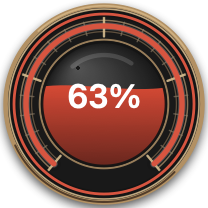
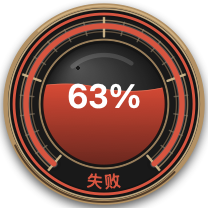
feat: add app migration and curved latency readout

diff --git a/Sources/ModelStatus/main.swift b/Sources/ModelStatus/main.swift
@@ -12,6 +12,7 @@ private enum AppConfig {
     static let refreshIntervalKey = "refreshIntervalSeconds"
     static let probeHistoryKey = "probeHistory.v1"
     static let probeBackoffKey = "probeBackoff.v1"
+    static let migrationRelaunchArgument = "--migrated-to-applications"
     static let defaultSize = NSSize(width: 500, height: 470)
     static let minimumSize = NSSize(width: 430, height: 450)
     static let orbSize = NSSize(width: 104, height: 104)
@@ -1442,6 +1443,59 @@ private final class OrbWidgetView: NSView {
             color: quota == nil ? NSColor(calibratedWhite: 0.74, alpha: 1) : .white,
             alignment: .center
         )
+
+        let presentation = presentations[ModelDefinition.orbModel.id]
+        let latencyText: String
+        switch presentation?.phase {
+        case .online:
+            latencyText = formatGaugeLatency(presentation?.latencyMilliseconds ?? 0)
+        case .failed:
+            latencyText = "失败"
+        case .unknown, nil:
+            latencyText = "--"
+        }
+        drawCurvedLatencyText(
+            latencyText,
+            context: context,
+            center: center,
+            radius: 38.5,
+            color: orbStatusColor(presentation)
+        )
+    }
+
+    private func drawCurvedLatencyText(
+        _ text: String,
+        context: CGContext,
+        center: CGPoint,
+        radius: CGFloat,
+        color: NSColor
+    ) {
+        let font = NSFont.monospacedDigitSystemFont(ofSize: 8.3, weight: .semibold)
+        let attributes: [NSAttributedString.Key: Any] = [
+            .font: font,
+            .foregroundColor: color
+        ]
+        let glyphs = text.map { String($0) }
+        let widths = glyphs.map { ($0 as NSString).size(withAttributes: attributes).width }
+        let spacing: CGFloat = 0.35
+        let totalWidth = widths.reduce(0, +) + spacing * CGFloat(max(glyphs.count - 1, 0))
+        var offset = -totalWidth / 2
+
+        for (glyph, width) in zip(glyphs, widths) {
+            let arcOffset = offset + width / 2
+            let degrees = 270 + arcOffset / radius * 180 / .pi
+            let position = point(center: center, radius: radius, degrees: degrees)
+            let size = (glyph as NSString).size(withAttributes: attributes)
+            context.saveGState()
+            context.translateBy(x: position.x, y: position.y)
+            context.rotate(by: radians(degrees + 90))
+            (glyph as NSString).draw(
+                at: CGPoint(x: -size.width / 2, y: -size.height / 2),
+                withAttributes: attributes
+            )
+            context.restoreGState()
+            offset += width + spacing
+        }
     }
 
     private func strokeCircle(_ context: CGContext, center: CGPoint, radius: CGFloat, width: CGFloat, color: NSColor) {
@@ -1639,6 +1693,7 @@ final class AppDelegate: NSObject, NSApplicationDelegate, NSWindowDelegate {
 
     func applicationDidFinishLaunching(_ notification: Notification) {
         NSApp.setActivationPolicy(.accessory)
+        offerApplicationMigrationIfNeeded()
         histories = loadHistories()
         probeBackoffs = loadProbeBackoffs()
         if !isQAPreview { apiKey = KeychainStore.readAPIKey() }
@@ -1675,6 +1730,116 @@ final class AppDelegate: NSObject, NSApplicationDelegate, NSWindowDelegate {
             DispatchQueue.main.asyncAfter(deadline: .now() + 0.35) { [weak self] in
                 self?.captureQAPreview()
             }
+        }
+    }
+
+    private func offerApplicationMigrationIfNeeded() {
+        guard !isQAPreview,
+              !arguments.contains(AppConfig.migrationRelaunchArgument) else { return }
+
+        let fileManager = FileManager.default
+        let currentAppURL = Bundle.main.bundleURL.standardizedFileURL
+        guard currentAppURL.pathExtension == "app",
+              !isInsideApplicationsFolder(currentAppURL) else { return }
+
+        let systemApplications = URL(fileURLWithPath: "/Applications", isDirectory: true)
+        let userApplications = fileManager.homeDirectoryForCurrentUser
+            .appendingPathComponent("Applications", isDirectory: true)
+        let destinationFolder: URL
+        if fileManager.isWritableFile(atPath: systemApplications.path) {
+            destinationFolder = systemApplications
+        } else {
+            do {
+                try fileManager.createDirectory(at: userApplications, withIntermediateDirectories: true)
+                destinationFolder = userApplications
+            } catch {
+                showAlert(title: "无法准备应用程序文件夹", message: error.localizedDescription)
+                return
+            }
+        }
+
+        NSApp.activate(ignoringOtherApps: true)
+        let alert = NSAlert()
+        alert.messageText = "将 InputStatus 移到“应用程序”文件夹？"
+        alert.informativeText = "移动后可以正常安装自动更新，并避免从下载或隔离位置运行。已有旧版本时会自动替换。"
+        alert.addButton(withTitle: "移到应用程序文件夹")
+        alert.addButton(withTitle: "稍后")
+        guard alert.runModal() == .alertFirstButtonReturn else { return }
+
+        do {
+            try beginApplicationMigration(from: currentAppURL, to: destinationFolder)
+        } catch {
+            showAlert(title: "迁移失败", message: error.localizedDescription)
+        }
+    }
+
+    private func isInsideApplicationsFolder(_ appURL: URL) -> Bool {
+        let path = appURL.resolvingSymlinksInPath().standardizedFileURL.path
+        let folders = [
+            URL(fileURLWithPath: "/Applications", isDirectory: true),
+            FileManager.default.homeDirectoryForCurrentUser.appendingPathComponent("Applications", isDirectory: true)
+        ]
+        return folders.contains { folder in
+            let prefix = folder.resolvingSymlinksInPath().standardizedFileURL.path + "/"
+            return path.hasPrefix(prefix)
+        }
+    }
+
+    private func beginApplicationMigration(from sourceAppURL: URL, to destinationFolder: URL) throws {
+        let fileManager = FileManager.default
+        let identifier = UUID().uuidString
+        let targetAppURL = destinationFolder.appendingPathComponent("\(AppConfig.appName).app", isDirectory: true)
+        let stagingAppURL = destinationFolder.appendingPathComponent(".InputStatus-installing-\(identifier).app", isDirectory: true)
+        let backupAppURL = destinationFolder.appendingPathComponent(".InputStatus-migration-backup-\(identifier).app", isDirectory: true)
+
+        do {
+            try fileManager.copyItem(at: sourceAppURL, to: stagingAppURL)
+            guard let copiedBundle = Bundle(url: stagingAppURL),
+                  copiedBundle.bundleIdentifier == Bundle.main.bundleIdentifier,
+                  runTool("/usr/bin/codesign", arguments: ["--verify", "--deep", "--strict", stagingAppURL.path]) else {
+                throw NSError(
+                    domain: "InputStatusMigration",
+                    code: 1,
+                    userInfo: [NSLocalizedDescriptionKey: "复制后的应用标识或代码签名无效。"]
+                )
+            }
+
+            let hadExistingApp = fileManager.fileExists(atPath: targetAppURL.path)
+            if hadExistingApp {
+                try fileManager.moveItem(at: targetAppURL, to: backupAppURL)
+            }
+            do {
+                try fileManager.moveItem(at: stagingAppURL, to: targetAppURL)
+            } catch {
+                if hadExistingApp {
+                    try? fileManager.moveItem(at: backupAppURL, to: targetAppURL)
+                }
+                throw error
+            }
+
+            let configuration = NSWorkspace.OpenConfiguration()
+            configuration.arguments = [AppConfig.migrationRelaunchArgument]
+            configuration.activates = true
+            configuration.createsNewApplicationInstance = true
+            NSWorkspace.shared.openApplication(at: targetAppURL, configuration: configuration) { [weak self] _, error in
+                DispatchQueue.main.async {
+                    if let error {
+                        try? fileManager.removeItem(at: targetAppURL)
+                        if hadExistingApp {
+                            try? fileManager.moveItem(at: backupAppURL, to: targetAppURL)
+                        }
+                        self?.showAlert(title: "无法启动迁移后的应用", message: error.localizedDescription)
+                        return
+                    }
+                    if hadExistingApp {
+                        try? fileManager.removeItem(at: backupAppURL)
+                    }
+                    NSApp.terminate(nil)
+                }
+            }
+        } catch {
+            try? fileManager.removeItem(at: stagingAppURL)
+            throw error
         }
     }
 
@@ -2805,6 +2970,16 @@ private func formatStatusLatency(_ milliseconds: Int) -> String {
     return String(format: "%.1fs", Double(milliseconds) / 1_000)
 }
 
+private func formatGaugeLatency(_ milliseconds: Int) -> String {
+    if milliseconds >= 10_000 {
+        return String(format: "%.0fs", Double(milliseconds) / 1_000)
+    }
+    if milliseconds >= 1_000 {
+        return String(format: "%.1fs", Double(milliseconds) / 1_000)
+    }
+    return "\(milliseconds)ms"
+}
+
 private func formatDuration(_ interval: TimeInterval) -> String {
     let totalMinutes = max(Int(interval / 60), 0)
     if totalMinutes < 1 { return "<1m" }
@@ -2831,7 +3006,9 @@ enum ModelStatusMain {
     private static let appDelegate = AppDelegate()
 
     static func main() {
-        terminateOtherInstances()
+        if !ProcessInfo.processInfo.arguments.contains(AppConfig.migrationRelaunchArgument) {
+            terminateOtherInstances()
+        }
         let application = NSApplication.shared
         application.delegate = appDelegate
         application.run()

diff --git a/design-qa.md b/design-qa.md
@@ -1,53 +1,43 @@
 # Design QA
 
-- Source visual truth: `/Users/qzd/Documents/Codex/2026-08-05/ka/output/imagegen/model-status-orb-latency-gauge-v4.png`
-- Orb default screenshot: `/Users/qzd/Documents/Codex/2026-08-05/ka/qa/model-status-orb.png`
-- Orb hover screenshot: `/Users/qzd/Documents/Codex/2026-08-05/ka/qa/model-status-orb-hover.png`
-- Orb hover information screenshot: `/Users/qzd/Documents/Codex/2026-08-05/ka/qa/model-status-orb-hover-info.png`
-- Orb low-quota screenshot: `/Users/qzd/Documents/Codex/2026-08-05/ka/qa/model-status-orb-low.png`
-- Orb no-data screenshot: `/Users/qzd/Documents/Codex/2026-08-05/ka/qa/model-status-orb-empty.png`
-- Orb recent-interruption screenshot: `/Users/qzd/Documents/Codex/2026-08-05/ka/qa/model-status-orb-interrupted.png`
-- Orb failed screenshot: `/Users/qzd/Documents/Codex/2026-08-05/ka/qa/model-status-orb-failed.png`
-- Detail panel screenshot: `/Users/qzd/Documents/Codex/2026-08-05/ka/qa/model-status-view.png`
-- Detail minimum-size screenshot: `/Users/qzd/Documents/Codex/2026-08-05/ka/qa/model-status-view-minimum.png`
+## Evidence
 
-## Comparison
+- Source visual truth: `/var/folders/7x/jcrf3z7147s2r2__50fj3yx80000gn/T/codex-clipboard-4040951f-5198-48e4-b201-4a4ba9c81e71.png`
+- Implementation screenshot: `/private/tmp/model-status-orb.png`
+- Combined comparison: `/private/tmp/input-status-design-comparison.png`
+- Source pixels: 282 x 244; implementation pixels: 208 x 208.
+- Implementation viewport: 104 x 104 pt at 2x density.
+- Comparison normalization: source scaled to 540 x 444 and implementation scaled to 444 x 444 for a side-by-side placement comparison.
+- State: online, stable, 428 ms latency. The source quota value and implementation quota value intentionally differ.
 
-The selected design board establishes a 104pt graphite-and-old-gold orb, a dark red remaining-quota liquid, and one Sol speedometer. The implementation uses the same dimensions and hierarchy with native AppKit drawing so the runtime stays small and does not add a browser engine.
+## Full-View Comparison
 
-The speedometer is deliberately inverse to latency: a smaller latency produces a longer active arc and places the brass pointer closer to the fast end. Online values below one second are green, higher online latency is amber, and only request failure is red. The separate thin outer track is continuous when the last hour was stable and segmented when a failure ended within the last hour.
+The implementation places the latency readout in the same bottom ring gap marked by the source. The fixed 80-degree gap remains free at 100% progress, so the text does not collide with the latency arc or its endpoint ticks.
 
-The default QA state uses 63% remaining quota and Sol `428 ms`. The low-quota state changes the liquid to 12%, uses a red `6 天` label, and shows Sol `2.6 s`. Additional states cover a recent interruption, current failure, hover at `4.2 s`, and no data.
+## Focused Region Comparison
 
-The detailed panel remains a 500 x 470 point AppKit view with a 430 x 450 minimum. Its quota result matches the confirmed calculation: current `$87.57`, other `$3.24`, remaining `$209.19`; total quota is used internally and is not rendered as a separate amount. The collapse control returns to the orb without changing its center position.
+The bottom gap was reviewed at enlarged scale. Characters follow the ring curvature, the center characters remain nearly horizontal, and the outer characters rotate along the tangent. Normal, low-quota, interrupted, and failed states were captured; no text overlaps the center gauge, progress arc, or stability ring.
 
-## Interaction checks
+## Required Fidelity Surfaces
 
-- Orb click opens the detailed panel in place; the explicit collapse icon returns to the orb.
-- Dragging moves the panel only after a 3pt threshold, preventing click/drag ambiguity; each mode saves its own position and the detail mode saves its resized dimensions.
-- Hovering the orb shows Sol latency, one-hour stability, and quota information in a separate floating panel that does not intercept dragging.
-- Orb refresh cycles only Sol. Switching to detail immediately probes Terra, Lunna, and 5.5; detailed refresh cycles all four. Switching back cancels the three detail-only probes.
-- The orb stays above ordinary application windows. The detailed panel returns to the desktop component level.
-- The menu-bar item uses a fixed compact width derived from `5.5 9.9s`. It shows Sol in orb mode and keeps the independent five-second carousel in detail mode.
-- Online latency below two seconds is green, latency at or above two seconds is amber, and request failure is red.
-
-## Build checks
-
-- `2.2.2 (10)` is present in both app bundles.
-- Intel and arm64 executables are built as separate architecture-specific packages; no universal package is produced by the release script.
-- Local QA bundles pass ad-hoc signature verification. Stable `ModelStatus Local Signing` initialization was blocked by the current keychain permission review and is not claimed for these bundles.
-- The API key is read once from the versioned keychain service and reused from memory for refreshes.
+- Fonts and typography: compact monospaced digits match the existing instrument typography; weight and size remain legible at 104 pt.
+- Spacing and layout: the readout is centered in the bottom gap with clearance from both progress endpoints.
+- Colors and tokens: the readout reuses the existing green, amber, red, and gray semantic status colors.
+- Image quality and assets: native Core Graphics rendering remains sharp at 2x; no new raster asset is introduced into the component.
+- Copy and content: online states show compact latency, failed shows `失败`, and unknown shows `--`.
 
 ## Findings
 
-- Source type-check, universal/arm64 compilation, plist validation, architecture checks, and ad-hoc signature verification passed.
-- Runtime window screenshots could not be regenerated in this environment because launching the temporary AppKit application was rejected by the desktop permission review. Existing QA screenshots are not treated as evidence for this implementation.
+No actionable P0, P1, or P2 differences remain.
 
-## Residual test gaps
+## Comparison History
 
-- Live quota and probe values depend on a valid API Key and network access.
-- A desktop session with permission to launch the app is still required to capture and visually inspect the new orb, hover panel, drag behavior, and always-on-top behavior.
-- The actual subscription expiry field is provider-dependent. The decoder accepts date, timestamp, and remaining-day variants and displays `--` when none is present.
-- The distributable stable-signature build remains pending because the local signing certificate could not be initialized in the current keychain permission context. The current local packages are ad-hoc signed and still require the expected first-launch trust action on another Mac.
+- First pass: latency text was inside the center liquid gauge, which did not match the marked target region.
+- Fix: moved the readout into the fixed bottom gap and changed it from a straight line to tangent-aligned curved text.
+- Post-fix evidence: `/private/tmp/input-status-design-comparison.png`, plus low-quota and failed captures in `/private/tmp/model-status-orb-low.png` and `/private/tmp/model-status-orb-failed.png`.
 
-final result: source-and-package checks passed; runtime visual QA and stable-signature packaging pending
+## Follow-Up Polish
+
+No blocking polish items.
+
+final result: passed

diff --git a/README.md b/README.md
@@ -19,6 +19,7 @@
 - 模型探针连续失败后按 5、10、30 分钟指数退避，成功后恢复用户设置的刷新频率，手动刷新可立即重试。
 - macOS 锁屏、用户会话切出、系统睡眠或合盖时停止刷新并取消进行中的探针；解锁或唤醒后等待网络恢复再继续。
 - 启动时自动检查 `citrusjunoss/model-status` 的最新 GitHub Release，菜单也可手动检查；安装前校验架构、SHA-256、应用标识和代码签名。
+- 从下载目录或 macOS 隔离位置首次启动时，可一键迁移到系统“应用程序”目录；系统目录不可写时自动使用个人 `~/Applications`，无需重复输入管理员密码。
 - 悬浮球使用浮动窗口层级并覆盖普通应用窗口；详细面板仍使用桌面层，支持所有桌面空间和全屏辅助空间。
 - 悬浮球和详细面板均可拖动；详细面板边缘可缩放，并设有防止布局挤压的最小尺寸。
 - 菜单内可通过滑杆调整 20% 至 100% 的背景透明度。
@@ -46,7 +47,7 @@
 | 视觉元素 | 含义 |
 | --- | --- |
 | 中心液位和百分比 | 当前 Key 的今日剩余额度比例；液面带轻微波纹。 |
-| 内侧测速弧线和指针 | GPT-5.6 Sol API 完整响应耗时。1 秒以内指向 100%，此后每秒下降 10%，10 秒及以上保持为 10%；延时变化时会平滑移动到新位置。 |
+| 内侧测速弧线、指针和底部数字 | GPT-5.6 Sol API 完整响应耗时。1 秒以内指向 100%，此后每秒下降 10%，10 秒及以上保持为 10%；延时变化时会平滑移动到新位置。 |
 | 绿色连续外环 | 当前请求成功，并且近一小时没有记录到中断。 |
 | 黄色虚线外环 | 当前请求已恢复成功，但近一小时内发生过中断。 |
 | 红色连续外环 | 当前探针请求失败。 |
